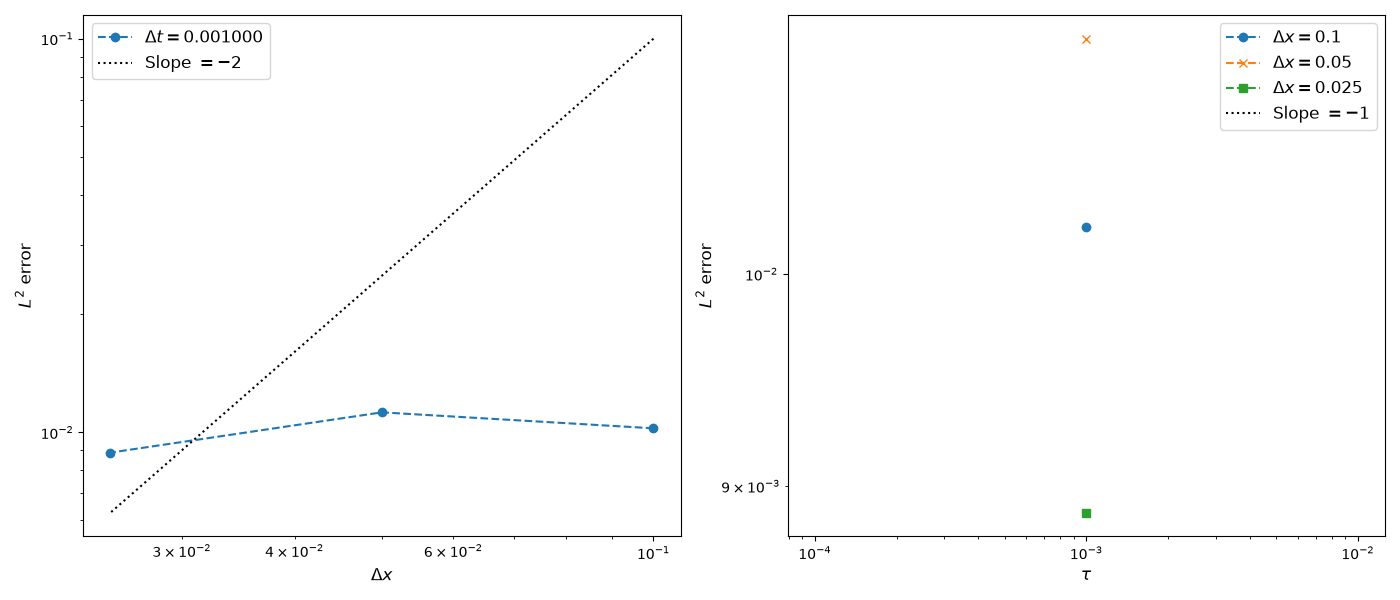
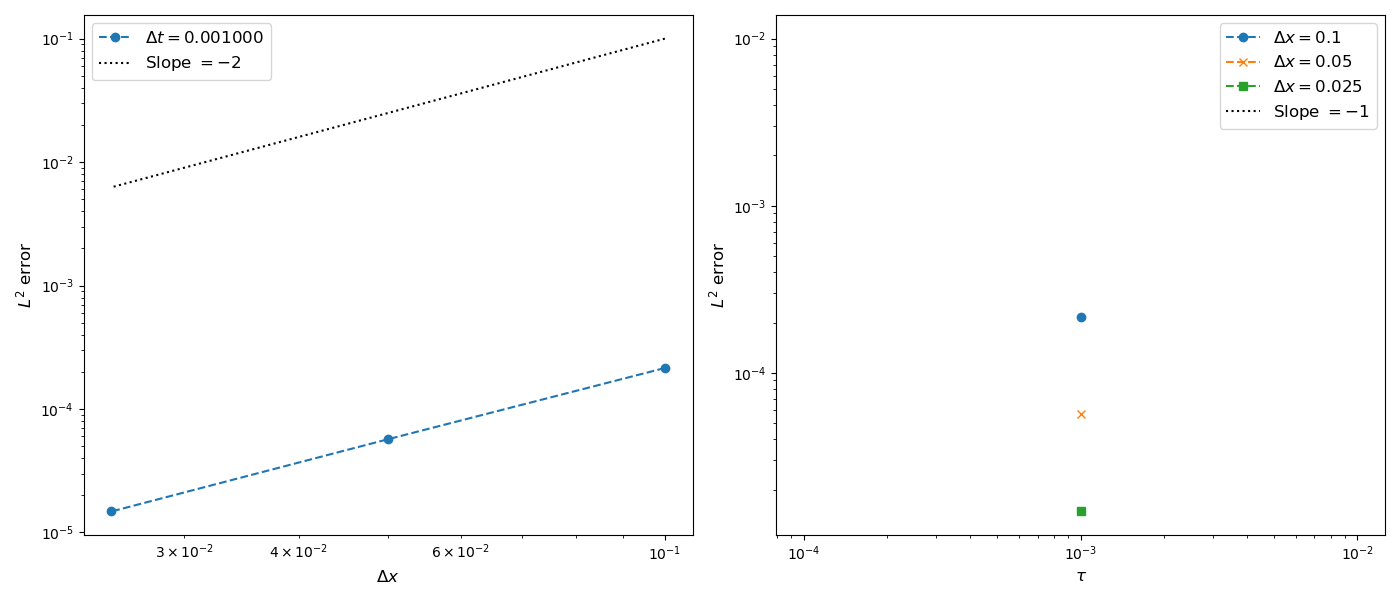
add some more tests

diff --git a/numerical_experiments/diffusion_test.py b/numerical_experiments/diffusion_test.py
@@ -62,10 +62,11 @@ with torch.no_grad():
             g = torch.zeros((1, 1, nx+3, nx+3))
 
             while t < T:
+                g = u_exact(xx,yy,t + dt)
                 if PC == True:
                     u_new = model(uold, t, dt, ninner=100, boundary_type="Dirichlet",  g=g, f=f1, xx=xx, yy=yy)
                 else:
-                    u_new = model(uold, t, dt, L=5, ninner=100, nouter=100, boundary_type="Dirichlet", omega=0.5, g=g, f=f1, xx=xx, yy=yy)
+                    u_new = model(uold, t, dt, L=5, ninner=200, nouter=200, boundary_type="Dirichlet", omega=0.5, g=g, f=f1, xx=xx, yy=yy)
                 t += dt
                 if t >= T:
                     print("t has reached the final time!")

diff --git a/numerical_experiments/horung_messing_test.py b/numerical_experiments/horung_messing_test.py
@@ -51,7 +51,7 @@ with torch.no_grad():
                 model = Richards_L(zz,  dx, dx, theta_hm, kappa_hm)
 
             while t < T:
-                u_exact = u_exact_hm(xx,yy,t)
+                u_exact = u_exact_hm(xx,yy,t+dt)
                 u_new = model(uold, t, dt, ninner=10, boundary_type="Dirichlet", g=u_exact)
                 t += dt
                 if t >= T:
